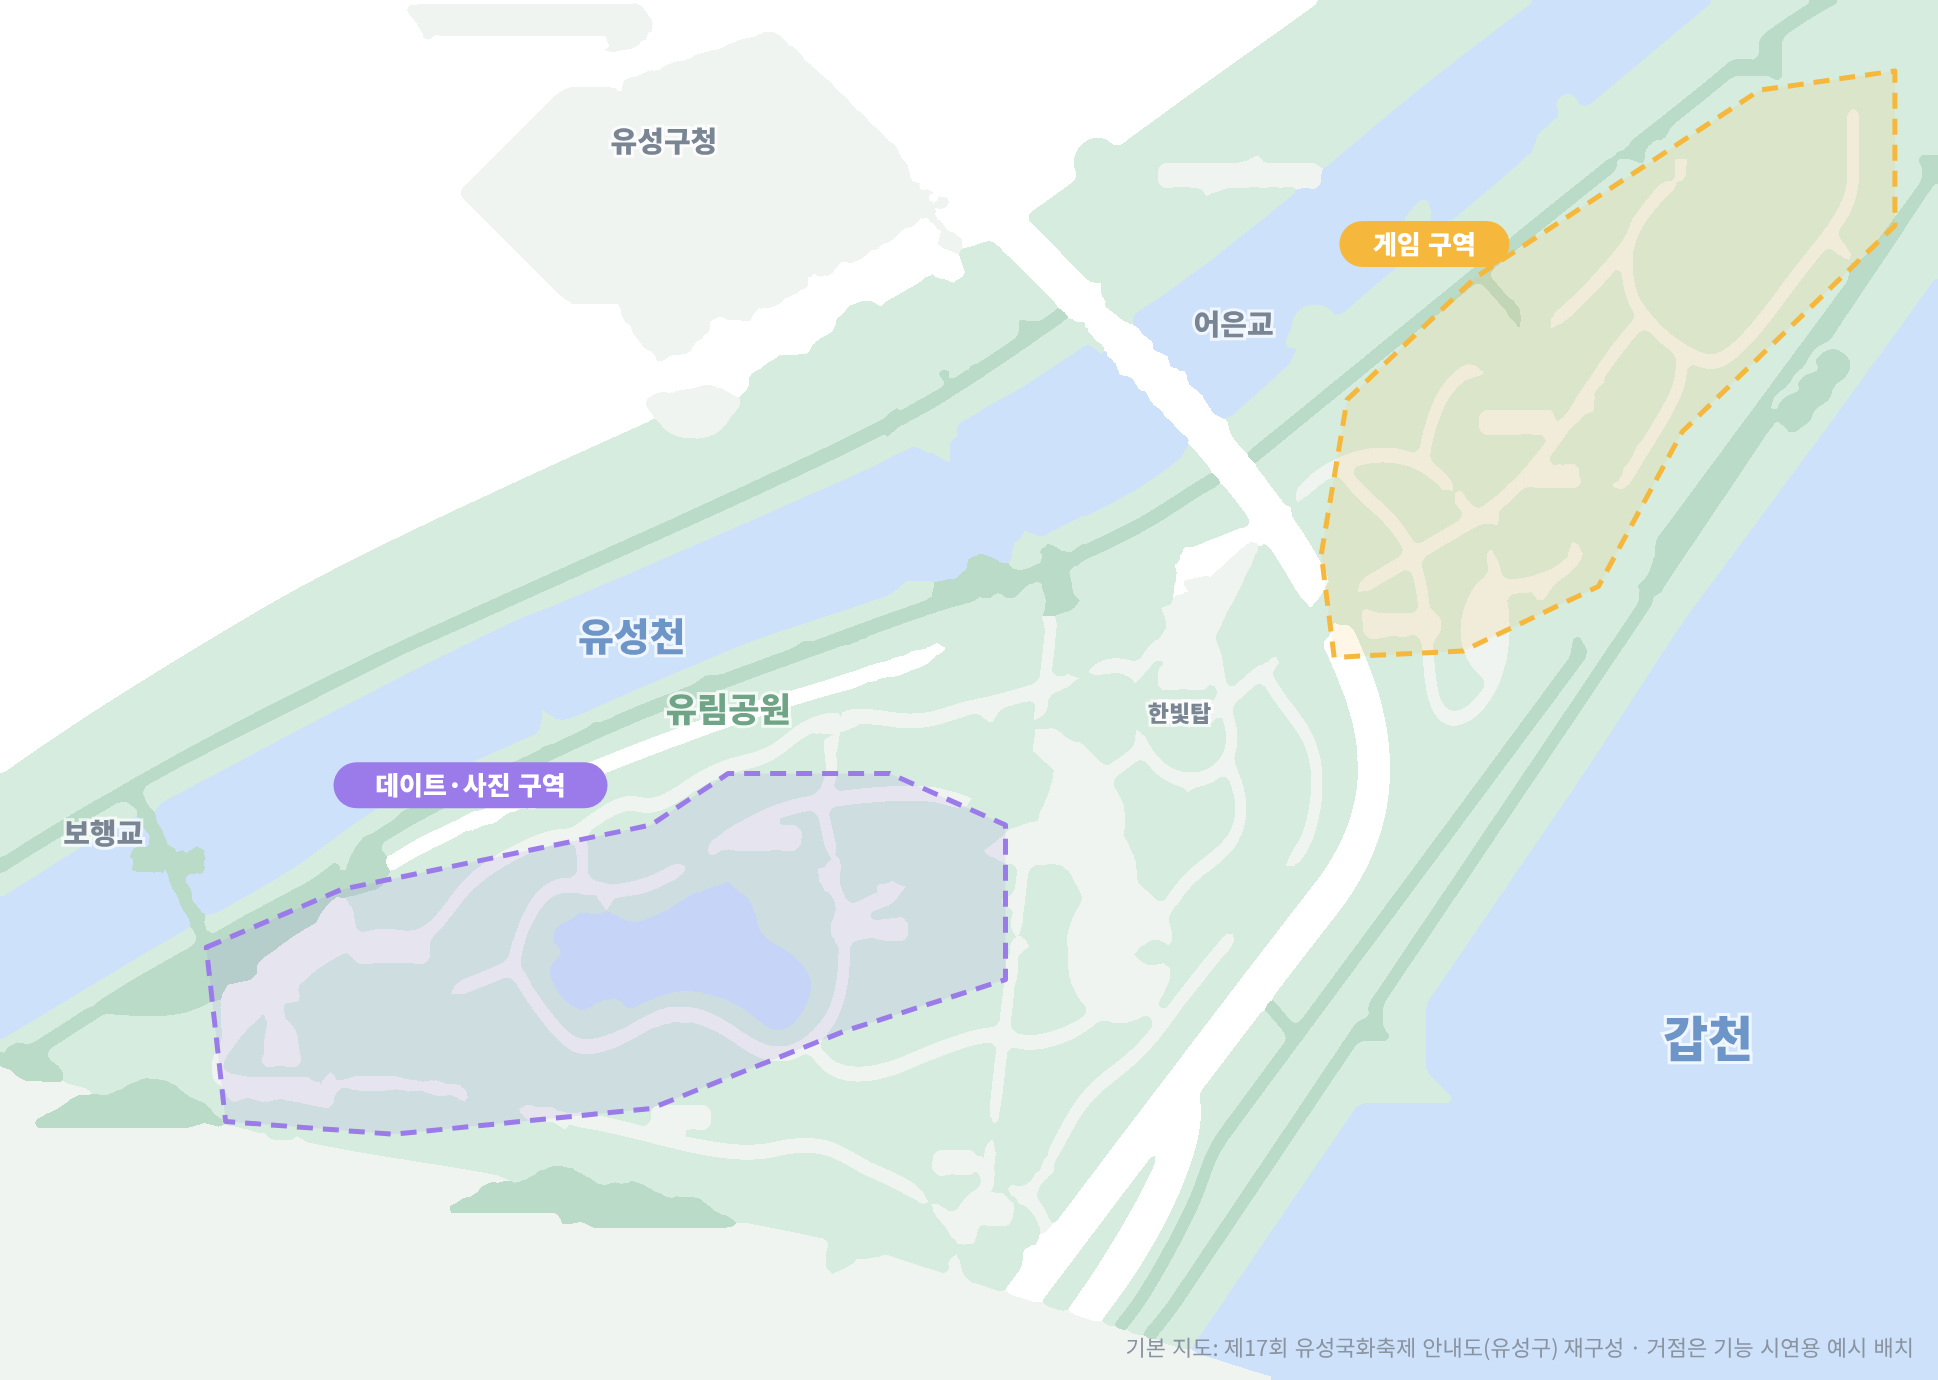
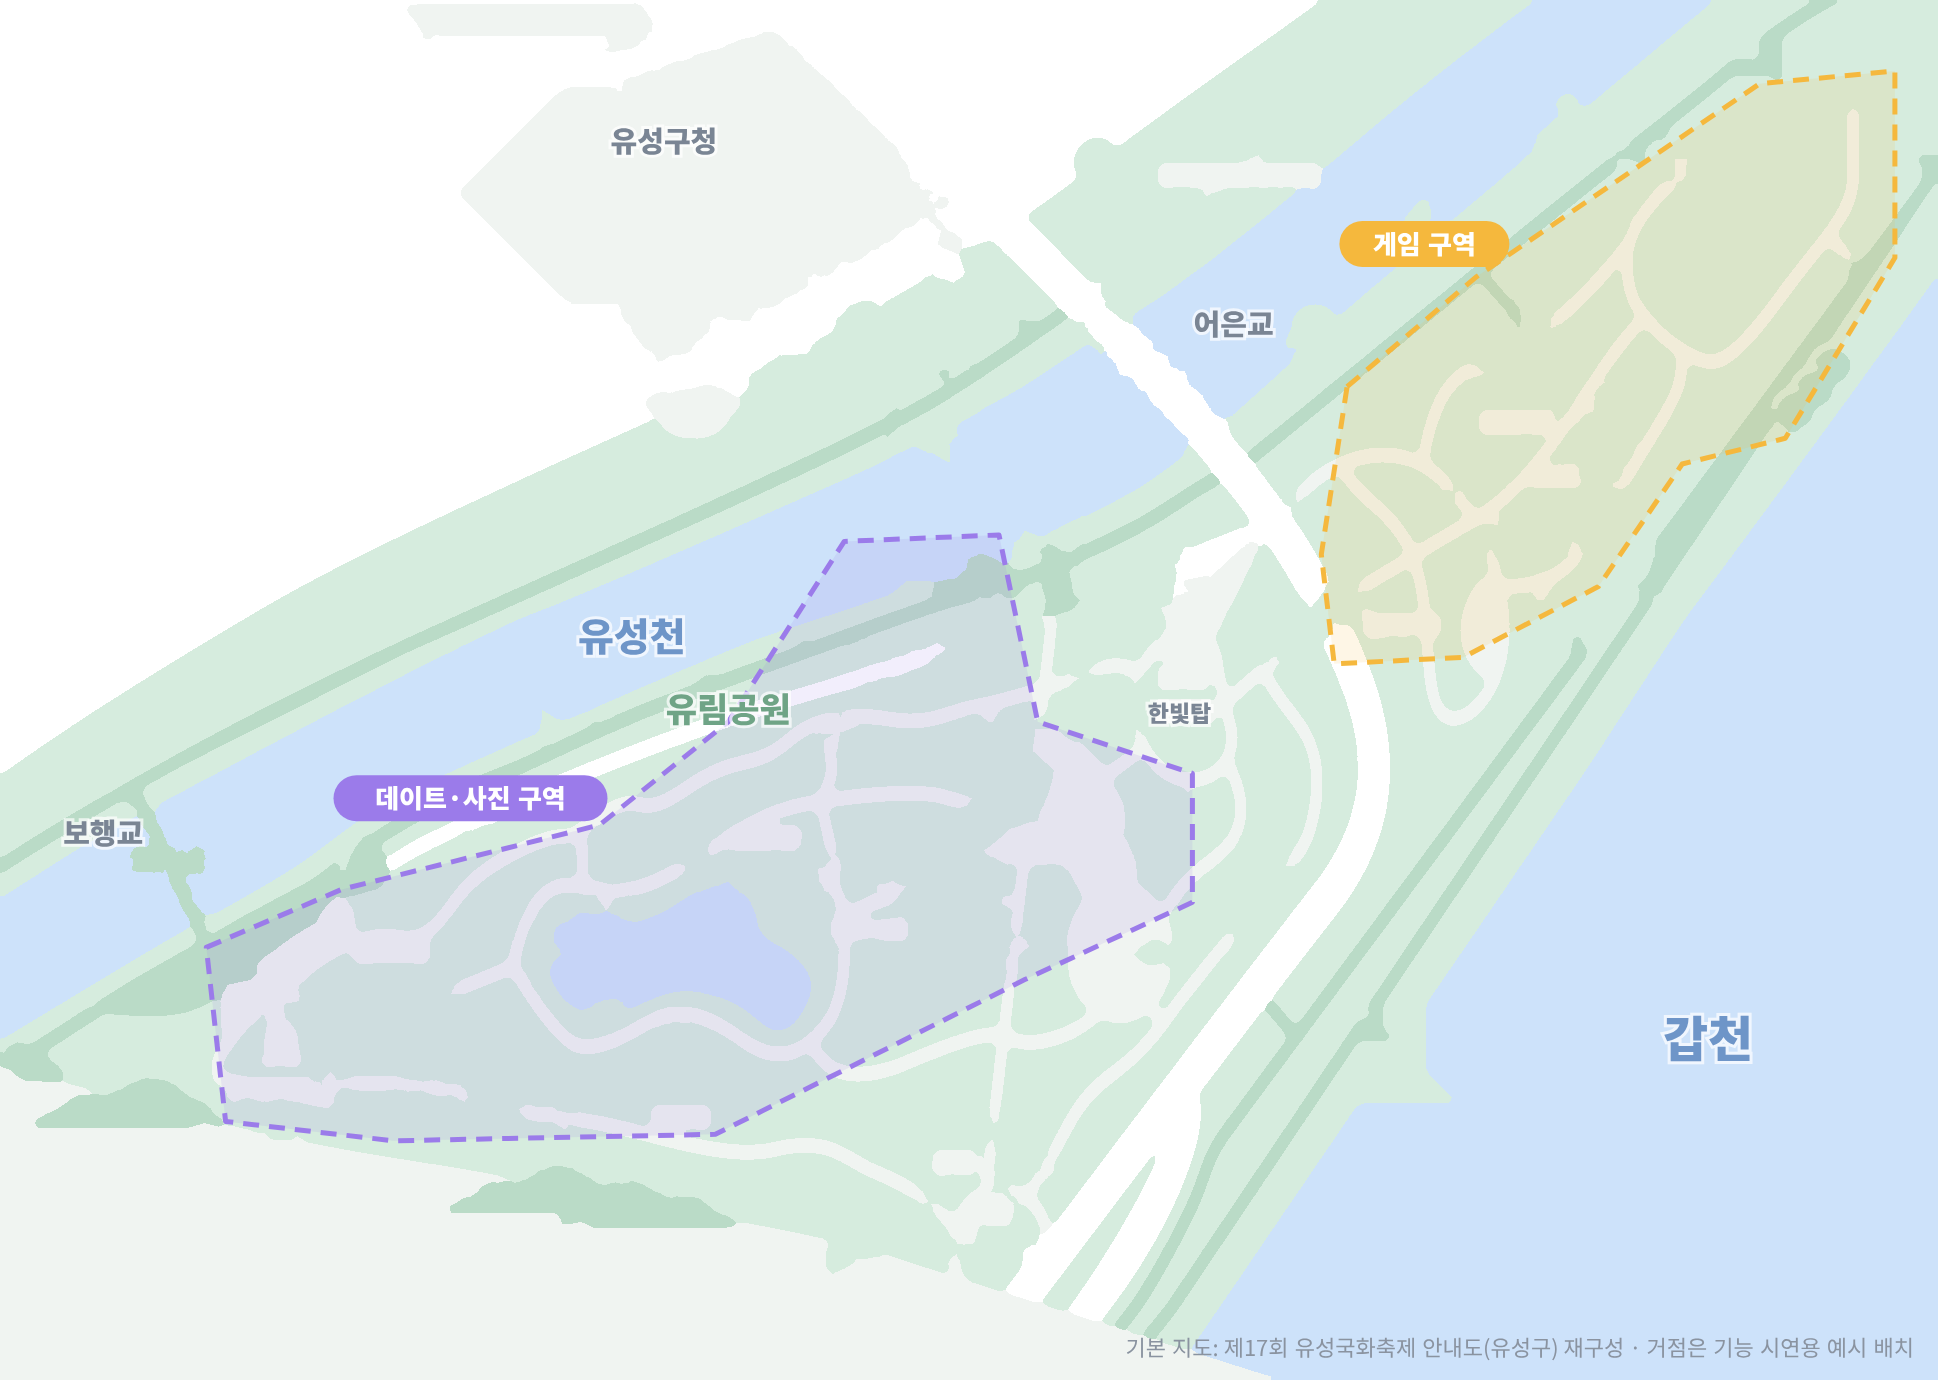
Add files via upload

diff --git a/index.html b/index.html
@@ -358,12 +358,23 @@ function routeSvg(c, here){
   s += '<polyline points="'+P.map(function(p){ return p.join(','); }).join(' ')+'" fill="none" stroke="#3D8BFD" stroke-width="'+(0.9*k).toFixed(2)+'" stroke-dasharray="'+(1.6*k).toFixed(2)+' '+(1.1*k).toFixed(2)+'" stroke-linecap="round" stroke-linejoin="round" opacity=".7"/>';
   for(var i = 1; i < pts.length; i++) if(pts[i].got && pts[i-1].got)
     s += '<line x1="'+P[i-1][0]+'" y1="'+P[i-1][1]+'" x2="'+P[i][0]+'" y2="'+P[i][1]+'" stroke="#34C38F" stroke-width="'+(1.3*k).toFixed(2)+'" stroke-linecap="round"/>';
+  /* 원 먼저 그리고, 이름표는 겹치지 않는 자리(위·아래·오른쪽·왼쪽)를 찾아서 얇은 글씨로 */
+  var r = 2.1 * k, fs = 1.75 * k, boxes = P.map(function(p){ return { x0:p[0]-r, x1:p[0]+r, y0:p[1]-r, y1:p[1]+r }; });
+  var hit = function(b){ return boxes.some(function(o){ return b.x0 < o.x1 && b.x1 > o.x0 && b.y0 < o.y1 && b.y1 > o.y0; }); };
   pts.forEach(function(p, i){
-    var cx = P[i][0], cy = P[i][1], r = 2.3 * k, isHere = p.id === here;
-    if(isHere) s += '<circle cx="'+cx+'" cy="'+cy+'" r="'+(r*1.75).toFixed(2)+'" fill="#3D8BFD" opacity=".18"/>';
-    s += '<circle cx="'+cx+'" cy="'+cy+'" r="'+r.toFixed(2)+'" fill="'+(p.got ? '#34C38F' : '#fff')+'" stroke="'+(p.got ? '#fff' : '#3D8BFD')+'" stroke-width="'+(0.6*k).toFixed(2)+'"/>';
-    s += '<text x="'+cx+'" y="'+(cy + 1.0*k)+'" text-anchor="middle" font-size="'+(2.6*k).toFixed(2)+'" font-weight="800" fill="'+(p.got ? '#fff' : '#3D8BFD')+'">'+(p.got ? '✓' : (i+1))+'</text>';
-    s += '<text x="'+cx+'" y="'+(cy - r - 1.1*k)+'" text-anchor="middle" font-size="'+(2.2*k).toFixed(2)+'" font-weight="700" fill="#1E2329" paint-order="stroke" stroke="#fff" stroke-width="'+(0.8*k).toFixed(2)+'">'+esc(p.loc)+'</text>';
+    var cx = P[i][0], cy = P[i][1], isHere = p.id === here;
+    if(isHere) s += '<circle cx="'+cx+'" cy="'+cy+'" r="'+(r*1.8).toFixed(2)+'" fill="#3D8BFD" opacity=".18"/>';
+    s += '<circle cx="'+cx+'" cy="'+cy+'" r="'+r.toFixed(2)+'" fill="'+(p.got ? '#34C38F' : '#fff')+'" stroke="'+(p.got ? '#fff' : '#3D8BFD')+'" stroke-width="'+(0.5*k).toFixed(2)+'"/>';
+    s += '<text x="'+cx+'" y="'+(cy + 0.85*k)+'" text-anchor="middle" font-size="'+(2.3*k).toFixed(2)+'" font-weight="700" fill="'+(p.got ? '#fff' : '#3D8BFD')+'">'+(p.got ? '✓' : (i+1))+'</text>';
+  });
+  pts.forEach(function(p, i){
+    var cx = P[i][0], cy = P[i][1], name = String(p.loc || p.id), w = name.length * fs * 0.92 + fs * 0.8, hgt = fs * 1.5;
+    var cand = [[cx - w/2, cy - r - 0.6*k - hgt], [cx - w/2, cy + r + 0.6*k], [cx + r + 0.6*k, cy - hgt/2], [cx - r - 0.6*k - w, cy - hgt/2]];
+    var pick = cand[0];
+    for(var j = 0; j < cand.length; j++){ var bb = { x0:cand[j][0], x1:cand[j][0]+w, y0:cand[j][1], y1:cand[j][1]+hgt }; if(!hit(bb)){ pick = cand[j]; break; } }
+    boxes.push({ x0:pick[0], x1:pick[0]+w, y0:pick[1], y1:pick[1]+hgt });
+    s += '<rect x="'+pick[0].toFixed(2)+'" y="'+pick[1].toFixed(2)+'" width="'+w.toFixed(2)+'" height="'+hgt.toFixed(2)+'" rx="'+(hgt/2).toFixed(2)+'" fill="#fff" fill-opacity=".92" stroke="#E7EAF0" stroke-width="'+(0.15*k).toFixed(2)+'"/>';
+    s += '<text x="'+(pick[0]+w/2).toFixed(2)+'" y="'+(pick[1]+hgt*0.7).toFixed(2)+'" text-anchor="middle" font-size="'+fs.toFixed(2)+'" font-weight="500" fill="#1E2329">'+esc(name)+'</text>';
   });
   return '<div class="route">' + s + '</svg></div>';
 }

diff --git a/status.html b/status.html
@@ -87,11 +87,11 @@ function mapSvg(v){
   L.forEach(function(l){ var a=by[l.a], b=by[l.b]; if(!a||!b) return; var k=l.n/lm;
     s += '<line x1="'+a.x+'" y1="'+(a.y*H/100)+'" x2="'+b.x+'" y2="'+(b.y*H/100)+'" stroke="#34C38F" stroke-linecap="round" stroke-opacity="'+(0.15+0.7*k).toFixed(2)+'" stroke-width="'+(0.2+2.2*k).toFixed(2)+'"/>'; });
   var tags = '';
-  pts.map(function(q){ var x = v[q.id]||0, k = mx>mn ? (x-mn)/(mx-mn) : 1; return { q:q, v:x, k:k, r:1.3+2.7*k }; }).sort(function(a,b){ return b.r-a.r; }).forEach(function(p){
+  pts.map(function(q){ var x = v[q.id]||0, k = mx>mn ? (x-mn)/(mx-mn) : 1; return { q:q, v:x, k:k, r: pts.length > 15 ? 1.0+2.0*k : 1.3+2.7*k }; }).sort(function(a,b){ return b.r-a.r; }).forEach(function(p){
     var cy = p.q.y*H/100, fs = Math.min(2.3, Math.max(1.3, p.r*0.85));
     s += '<g><title>'+esc(p.q.id+' '+p.q.loc+' · '+p.v)+'</title><circle cx="'+p.q.x+'" cy="'+cy+'" r="'+p.r.toFixed(2)+'" fill="'+heat(p.k)+'" fill-opacity=".92" stroke="#fff" stroke-width=".3"/>'+
       '<text x="'+p.q.x+'" y="'+(cy+fs*0.36)+'" text-anchor="middle" font-size="'+fs.toFixed(2)+'" font-weight="800" fill="#fff">'+p.v+'</text></g>';
-    tags += '<text x="'+p.q.x+'" y="'+(cy+p.r+1.7).toFixed(2)+'" text-anchor="middle" font-size="1.25" font-weight="700" fill="#1E2329" paint-order="stroke" stroke="#fff" stroke-width=".45">'+esc(p.q.loc)+'</text>';
+    tags += '<text x="'+p.q.x+'" y="'+(cy+p.r+1.7).toFixed(2)+'" text-anchor="middle" font-size="1.2" font-weight="500" fill="#1E2329" paint-order="stroke" stroke="#fff" stroke-width=".35">'+esc(p.q.loc)+'</text>';
     var tw = 0.78*p.q.id.length+1.1, ty = cy-p.r-1.25;
     tags += '<rect x="'+(p.q.x-tw/2).toFixed(2)+'" y="'+(ty-0.95).toFixed(2)+'" width="'+tw.toFixed(2)+'" height="1.9" rx=".95" fill="#1E2329" fill-opacity=".85"/><text x="'+p.q.x+'" y="'+(ty+0.42).toFixed(2)+'" text-anchor="middle" font-size="1.2" font-weight="700" fill="#fff">'+esc(p.q.id)+'</text>';
   });
